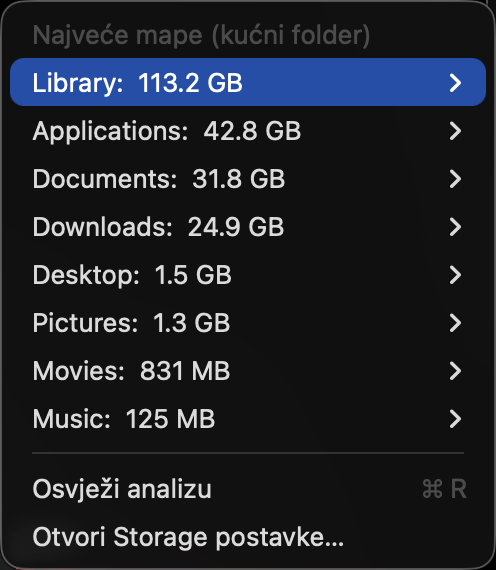
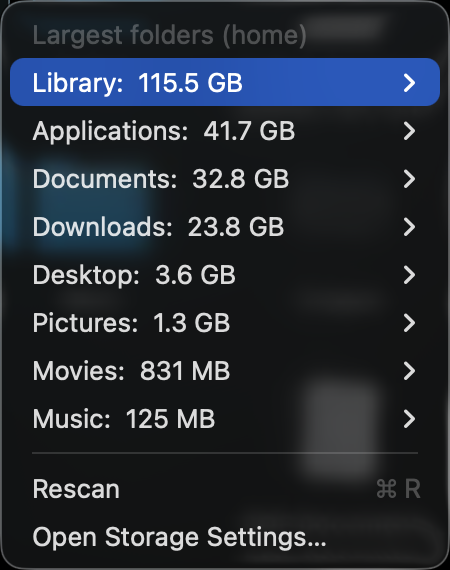
content: match ActivityBar's size claim to Klik's, and reshoot in English
The page claimed "~45 MB RAM", Klik claims a size in MB — two
different kinds of number for one portfolio, and RSS is not a claim
worth making: every AppKit menu bar app sits in that range. Both now
quote the download, the way the Klik page already does: a 1.2 MB
.app with a 225 KB binary inside it.

Screenshots replaced too — the app's interface is English now, so
the Croatian captures no longer matched what you get.

diff --git a/apps/activitybar.html b/apps/activitybar.html
@@ -32,20 +32,20 @@
   <link rel="icon" type="image/svg+xml" href="/favicon.svg" />
   <meta name="viewport" content="width=device-width, initial-scale=1.0" />
   <title>ActivityBar — CPU, RAM & SSD in Your macOS Menu Bar | Co Digit</title>
-  <meta name="description" content="Live CPU, RAM and SSD usage in your macOS menu bar. Native Swift, ~45 MB RAM, zero bloat. Free and open source for Apple Silicon." />
+  <meta name="description" content="Live CPU, RAM and SSD usage in your macOS menu bar. Native Swift, a 1.2 MB app, zero bloat. Free and open source for Apple Silicon." />
   <link rel="canonical" href="https://codigit.io/apps/activitybar.html" />
   <!-- Open Graph -->
   <meta property="og:type" content="website" />
   <meta property="og:url" content="https://codigit.io/apps/activitybar.html" />
   <meta property="og:title" content="ActivityBar — CPU, RAM & SSD in Your macOS Menu Bar | Co Digit" />
-  <meta property="og:description" content="Live CPU, RAM and SSD usage in your macOS menu bar. Native Swift, ~45 MB RAM, zero bloat. Free and open source for Apple Silicon." />
+  <meta property="og:description" content="Live CPU, RAM and SSD usage in your macOS menu bar. Native Swift, a 1.2 MB app, zero bloat. Free and open source for Apple Silicon." />
   <meta property="og:image" content="https://codigit.io/og-image.png" />
   <meta property="og:locale" content="en_US" />
   <meta property="og:site_name" content="Co Digit" />
   <!-- Twitter Card -->
   <meta name="twitter:card" content="summary" />
   <meta name="twitter:title" content="ActivityBar — CPU, RAM & SSD in Your macOS Menu Bar | Co Digit" />
-  <meta name="twitter:description" content="Live CPU, RAM and SSD usage in your macOS menu bar. Native Swift, ~45 MB RAM, zero bloat. Free and open source for Apple Silicon." />
+  <meta name="twitter:description" content="Live CPU, RAM and SSD usage in your macOS menu bar. Native Swift, a 1.2 MB app, zero bloat. Free and open source for Apple Silicon." />
   <meta name="twitter:image" content="https://codigit.io/og-image.png" />
   <link rel="preconnect" href="https://fonts.googleapis.com" />
   <link rel="preconnect" href="https://fonts.gstatic.com" crossorigin />
@@ -294,9 +294,9 @@
     .lb.zoom .lb-stage img { max-width: none; max-height: none; cursor: zoom-out; }
     .lb-cap { padding: 12px 16px 18px; color: rgba(255,255,255,.75); font-size: 13px; text-align: center; max-width: 780px; margin: 0 auto; }
     @media (max-width: 560px) { .lb-bar { padding: 10px 12px; } .lb-btn { padding: 8px 10px; } .lb-cap { font-size: 12.5px; } }
-    .shot-menu { flex: 0 1 390px; }
-    .shot-proc { flex: 0 1 295px; }
-    .shot-disk { flex: 0 1 248px; }
+    .shot-menu { flex: 0 1 340px; }
+    .shot-proc { flex: 0 1 315px; }
+    .shot-disk { flex: 0 1 225px; }
   </style>
 </head>
 <body>
@@ -331,7 +331,7 @@
     <div class="app-hero-content">
       <span class="app-platform-badge" id="platform-badge">macOS · Apple Silicon · Free</span>
       <h1 id="app-name">ActivityBar</h1>
-      <p class="app-tagline" id="app-tagline">Live CPU, RAM and SSD usage in your macOS menu bar. Native Swift, ~45 MB RAM, zero bloat.</p>
+      <p class="app-tagline" id="app-tagline">Live CPU, RAM and SSD usage in your macOS menu bar. Native Swift, a 1.2 MB app, zero bloat.</p>
       <div class="app-cta-row">
         <a href="https://github.com/marino143/macos-activity-bar/releases/download/v1.0.0/ActivityBar.zip" class="btn btn-primary" id="cta-download">Download free →</a>
         <a href="https://github.com/marino143/macos-activity-bar" target="_blank" class="btn btn-outline" id="cta-github">View source</a>
@@ -349,7 +349,7 @@
       <ul class="benefit-list">
         <li>Three numbers, always visible</li>
         <li>Native Swift — no Electron bloat</li>
-        <li>~45 MB RAM, near-zero CPU</li>
+        <li>A 1.2 MB app, and about 0.2% CPU while it sits there</li>
         <li>Monospaced digits, so the numbers don't jump around as they change</li>
         <li>CPU and RAM open the list of hungriest processes — kill one straight from the menu</li>
         <li>SSD opens your biggest folders, and keeps drilling until you find what actually filled the disk</li>
@@ -361,7 +361,7 @@
       <ul class="benefit-list">
         <li>Tri broja, uvijek vidljiva</li>
         <li>Nativni Swift — bez Electron bloata</li>
-        <li>~45 MB RAM-a, gotovo nula CPU-a</li>
+        <li>Aplikacija od 1,2 MB i oko 0,2% CPU-a dok samo stoji</li>
         <li>Monospace znamenke, da brojevi ne poskakuju dok se mijenjaju</li>
         <li>CPU i RAM otvaraju popis najgladnijih procesa — ubij ga direktno iz menija</li>
         <li>SSD otvara tvoje najveće mape i kopa dalje dok ne nađeš što ti je stvarno pojelo disk</li>
@@ -375,15 +375,15 @@
     <h2 id="h-shots">Screenshots</h2>
     <div class="shots">
       <figure class="shot shot-menu">
-        <img src="/apps/screenshots/activitybar-menu.png" alt="The ActivityBar menu showing CPU, RAM and SSD readouts" loading="lazy" width="780" height="422" />
+        <img src="/apps/screenshots/activitybar-menu.png" alt="The ActivityBar menu showing CPU, RAM and SSD readouts" loading="lazy" width="680" height="422" />
         <figcaption id="cap-menu">Three numbers in the menu bar; the menu gives you the exact figures.</figcaption>
       </figure>
       <figure class="shot shot-proc">
-        <img src="/apps/screenshots/activitybar-processes.png" alt="Top processes by CPU, each one clickable to kill" loading="lazy" width="590" height="858" />
+        <img src="/apps/screenshots/activitybar-processes.png" alt="Top processes by CPU, each one clickable to kill" loading="lazy" width="630" height="858" />
         <figcaption id="cap-proc">The hungriest processes, worst first. Click one to kill it.</figcaption>
       </figure>
       <figure class="shot shot-disk">
-        <img src="/apps/screenshots/activitybar-disk.png" alt="Home folders sorted by size, each expanding into its subfolders" loading="lazy" width="496" height="570" />
+        <img src="/apps/screenshots/activitybar-disk.png" alt="Home folders sorted by size, each expanding into its subfolders" loading="lazy" width="450" height="570" />
         <figcaption id="cap-disk">Your folders, biggest first — and every one of them opens further.</figcaption>
       </figure>
     </div>
@@ -394,12 +394,12 @@
     <h2 id="h-why">Why native?</h2>
     <div class="lang-content active" data-lang="en">
       <p>ActivityBar is still a single Swift file — around 850 lines now. It reads Apple's built-in <code>host_statistics</code> and <code>vm_statistics64</code> syscalls — the same data source the macOS Activity Monitor uses — so the numbers match exactly. Folder sizes come from <code>du</code>, run at background CPU and I/O priority so a scan never gets in the way of what you're doing.</p>
-      <p>There is no helper process, no background daemon, no Electron runtime, no telemetry, no analytics. The binary is about 225 KB and the app has no network code at all. At rest it costs roughly 0.2% CPU — readings are cached, menu labels are only written while the menu is actually open, and the title in the menu bar is only redrawn when the text changes.</p>
+      <p>There is no helper process, no background daemon, no Electron runtime, no telemetry, no analytics. It ships as a 1.2 MB <code>.app</code> — a 225 KB binary, the rest is the icon — and has no network code at all. At rest it costs roughly 0.2% CPU — readings are cached, menu labels are only written while the menu is actually open, and the title in the menu bar is only redrawn when the text changes.</p>
       <p>Even the app icon is generated programmatically by a separate Swift script — no Photoshop, no Figma export — so the whole build pipeline is one shell script and reproducible on any Mac with the command line tools.</p>
     </div>
     <div class="lang-content" data-lang="hr">
       <p>ActivityBar je i dalje jedna Swift datoteka — sad oko 850 linija. Čita Appleove ugrađene <code>host_statistics</code> i <code>vm_statistics64</code> syscallove — isti izvor podataka koji koristi macOS Activity Monitor — pa se brojevi točno poklapaju. Veličine mapa dolaze iz <code>du</code>, pokrenutog na pozadinskom CPU i I/O prioritetu, da ti skeniranje nikad ne smeta u radu.</p>
-      <p>Nema pomoćnog procesa, nema pozadinskog daemona, nema Electron runtimea, nema telemetrije, nema analitike. Binary je oko 225 KB i aplikacija uopće nema mrežnog koda. U mirovanju troši otprilike 0,2% CPU-a — očitanja se keširaju, natpisi u meniju se pišu samo dok je meni stvarno otvoren, a naslov u menu baru se iscrtava samo kad se tekst promijeni.</p>
+      <p>Nema pomoćnog procesa, nema pozadinskog daemona, nema Electron runtimea, nema telemetrije, nema analitike. Isporučuje se kao <code>.app</code> od 1,2 MB — binary je 225 KB, ostalo je ikona — i uopće nema mrežnog koda. U mirovanju troši otprilike 0,2% CPU-a — očitanja se keširaju, natpisi u meniju se pišu samo dok je meni stvarno otvoren, a naslov u menu baru se iscrtava samo kad se tekst promijeni.</p>
       <p>Čak je i ikona aplikacije generirana programski zasebnom Swift skriptom — bez Photoshopa, bez Figma exporta — pa je cijeli build pipeline jedna shell skripta, reproducibilna na bilo kojem Macu s command line toolsima.</p>
     </div>
   </section>
@@ -487,7 +487,7 @@
   const t = {
     en: {
       'platform-badge': 'macOS · Apple Silicon · Free',
-      'app-tagline': 'Live CPU, RAM and SSD usage in your macOS menu bar. Native Swift, ~45 MB RAM, zero bloat.',
+      'app-tagline': 'Live CPU, RAM and SSD usage in your macOS menu bar. Native Swift, a 1.2 MB app, zero bloat.',
       'cta-download': 'Download free →',
       'cta-github': 'View source',
       'h-what': 'What it does',
@@ -508,7 +508,7 @@
     },
     hr: {
       'platform-badge': 'macOS · Apple Silicon · Besplatno',
-      'app-tagline': 'Praćenje CPU-a, RAM-a i SSD-a uživo u macOS menu baru. Nativni Swift, ~45 MB RAM, bez bloata.',
+      'app-tagline': 'Praćenje CPU-a, RAM-a i SSD-a uživo u macOS menu baru. Nativni Swift, aplikacija od 1,2 MB, bez bloata.',
       'cta-download': 'Preuzmi besplatno →',
       'cta-github': 'Izvorni kod',
       'h-what': 'Što radi',
@@ -662,7 +662,7 @@
   "name": "ActivityBar",
   "applicationCategory": "UtilitiesApplication",
   "operatingSystem": "macOS",
-  "description": "Live CPU, RAM and SSD usage in your macOS menu bar. Native Swift, ~45 MB RAM, zero bloat. Free and open source for Apple Silicon.",
+  "description": "Live CPU, RAM and SSD usage in your macOS menu bar. Native Swift, a 1.2 MB app, zero bloat. Free and open source for Apple Silicon.",
   "url": "https://codigit.io/apps/activitybar.html",
   "offers": {
     "@type": "Offer",
